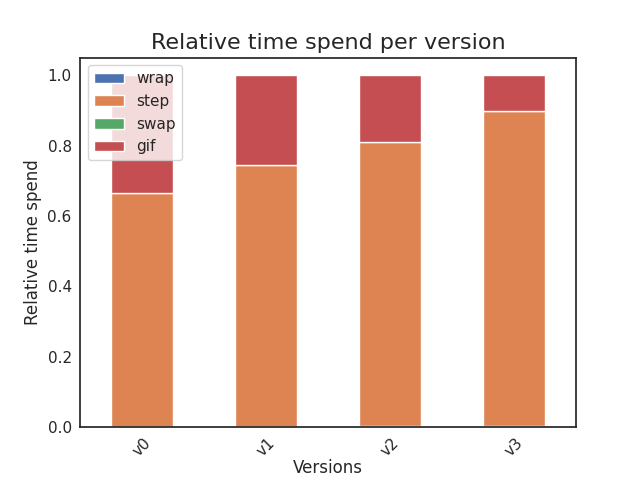
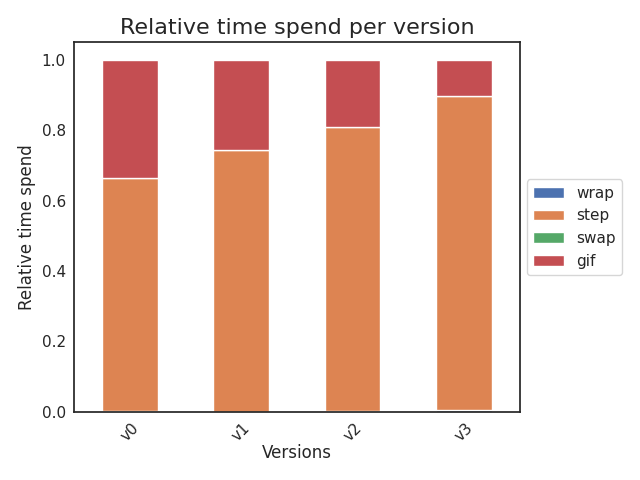
Figuren toegevoegd

diff --git a/profiler/generate_figures.py b/profiler/generate_figures.py
@@ -64,7 +64,10 @@ def gen_barplot():
     plt.xlabel("Versions", labelpad=0)
     plt.ylabel("Relative time spend")
     plt.xticks(rotation=45)
-    plt.gca().tick_params(axis="both", which="major", pad=0)
+    ax = plt.gca()
+    ax.tick_params(axis="both", which="major", pad=0)
+    ax.legend(loc="center left", bbox_to_anchor=(1, 0.5))
+    plt.tight_layout()
 
     # Save and show plot.
     plt.savefig(f"figures/{results_folder}_{'-'.join(versions)}")
